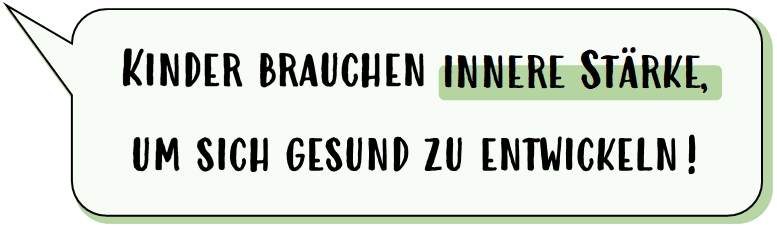
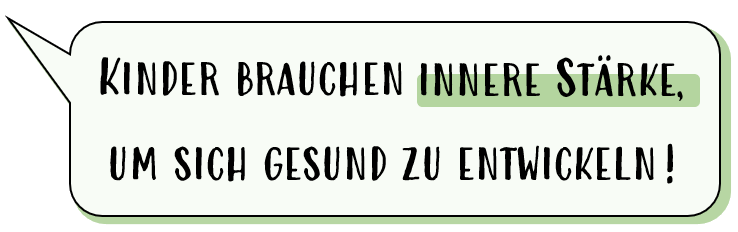
Sprechblasen 1-3

Changed region(s): [[0.0, 0.0, 0.9973, 0.9825], [0.1247, 0.5833, 0.935, 0.7982]]

diff --git a/src/pages/Index.vue b/src/pages/Index.vue
@@ -60,9 +60,7 @@
               und 2 Jahren
             </li>
           </ul>
-          <p>
-            Du wünschst dir für dich und dein Baby...
-          </p>
+          <p>Du wünschst dir für dich und dein Baby...</p>
           <Cards
             :cards="[
               {
@@ -84,16 +82,24 @@
           />
           <p>
             Deine Kommunikation macht den Unterschied, und zwar von Anfang an!
-            Die ersten drei Lebensjahre beeinflussen dein Kind besonders stark
-            und nachhaltig. Kommuniziere von Anfang an
-            <em>subjektorientiert</em> und ...
+            Die ersten drei Lebensjahre beeinflussen die kognitive, psychische
+            und soziale Entwicklung deines Kindes besonders stark und
+            nachhaltig. Probleme, die im späteren Leben auftauchen, wurzeln oft
+            in frühsten Kindheitserfahrungen.
           </p>
           <g-image
-            alt="Sprechblase"
-            blur="0"
-            class="speech-bubble speech-bubble--right"
+            alt="Die ersten drei Jahre zählen"
             src="~/assets/imgs/sprechblase-1.png"
+            width="500"
+            class="speech-bubble--right"
           />
+          <p class="speech-bubble__clear"></p>
+          <p>
+            <br /><br />Eine einfühlsame, wertschätzende und stärkende
+            Kommunikation bereits in den ersten Lebensjahen ist das Wertvollste,
+            das du deinem Kind schenken kannst. Kommuniziere von Anfang an
+            <em>subjektorientiert</em> und ...
+          </p>
           <div class="checklist">
             <ChecklistEntry
               v-for="entry in [
@@ -265,16 +271,44 @@
               >
             </div>
           </div>
+          <p>
+            <br />Für eine gesunde kognitive, psychische und soziale Entwicklung
+            brauchen Kinder vor allem eins: Innere Stärke. Innerlich starke
+            Kinder...
+          </p>
+          <div class="checklist">
+            <ChecklistEntry
+              v-for="entry in [
+                {
+                  id: 0,
+                  text:
+                    'kennen sich selbst gut und können auch andere Menschen differenziert lesen und so empathisch reagieren.',
+                },
+                {
+                  id: 1,
+                  text:
+                    'haben einen starken Selbstwert und gehen wertschätzend mit sich selbst und mit anderen Menschen um.',
+                },
+                {
+                  id: 2,
+                  text:
+                    'vertrauen in ihre Fähigkeiten, Neues zu lernen, mit Schwierigkeiten umzugehen und etwas zu bewirken.',
+                },
+              ]"
+              :key="entry.id"
+              :entry="entry"
+            />
+          </div>
           <g-image
-            alt="Sprechblase"
-            blur="0"
-            class="speech-bubble speech-bubble--left"
+            alt="Knder brauchen innere Stärke"
             src="~/assets/imgs/sprechblase-2.png"
-            style="width: 47vw"
+            width="500"
           />
           <p class="speech-bubble__clear" />
           <p>
-            In den fünf Kursblöcken lernst du...
+            <br />In den fünf Kursblöcken dreht sich alles um die Frage, wie du
+            durch deine Kommunikation dein Kind von Anfang an innerlich stärken
+            kannst. Du lernst...
           </p>
           <ul class="checklist">
             <li class="checklist__item  checklist__item--kursblock-1">
@@ -342,11 +376,13 @@
               </div>
             </li>
           </ul>
-          <img
-            alt="Mother on laptop and baby sleeping in bed"
-            class="img"
-            src="imgs/mother-on-laptop-and-baby-sleeping-in-bed.jpg"
+          <g-image
+            alt="Die ersten drei Jahre zählen"
+            src="~/assets/imgs/sprechblase-3.png"
+            width="541"
+            class="speech-bubble--right"
           />
+          <p class="speech-bubble__clear" />
         </section>
         <section class="section">
           <a class="scroll-offset" href="/#offer" id="offer"></a>
